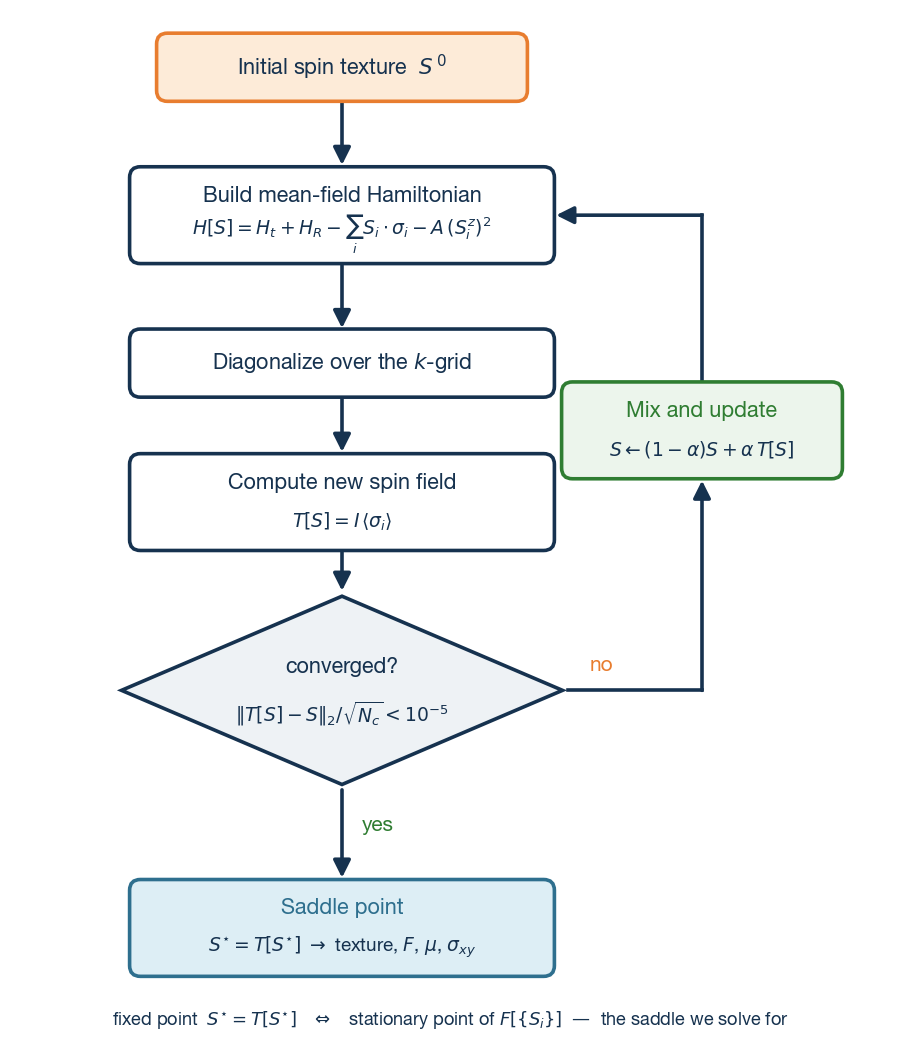
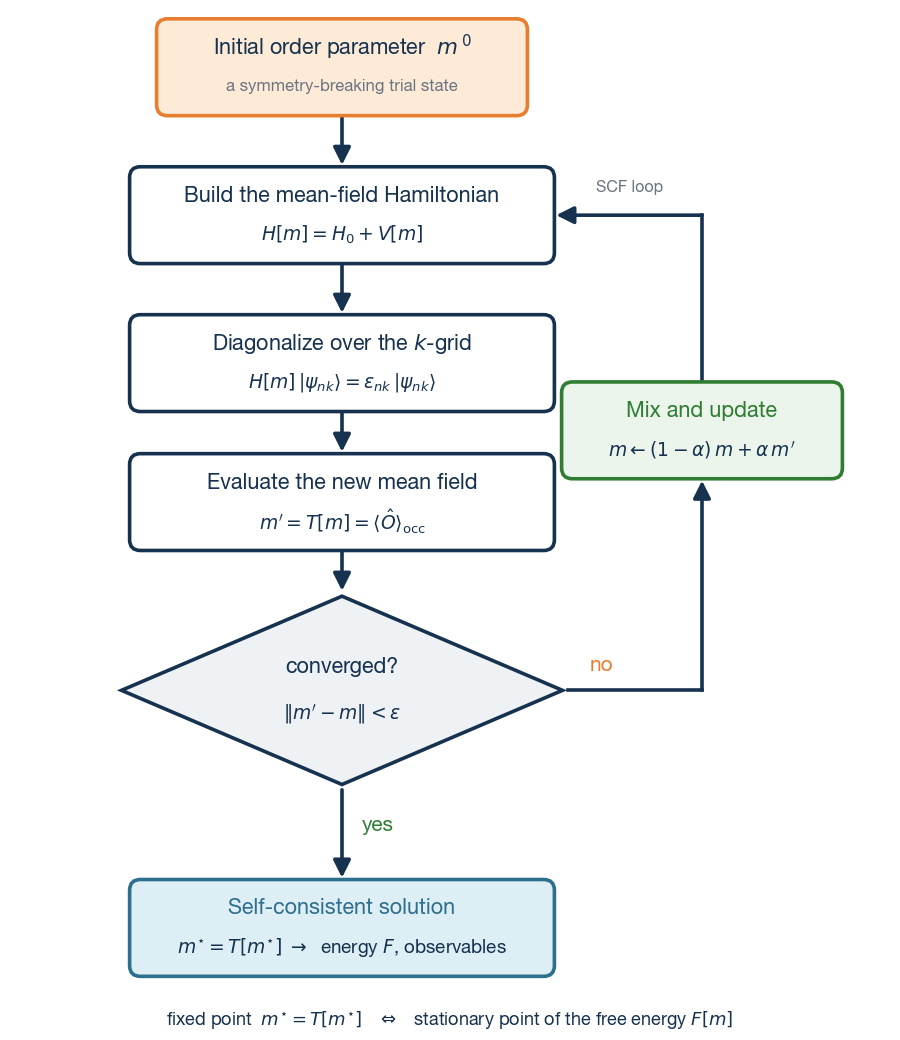
SCF flowchart: redraw fully generic (order parameter m, not the lattice model)
The old chart hard-coded the lattice Hubbard+Rashba+easy-axis Hamiltonian and
spin-texture wording — too problem-specific for a general-purpose solver
banner. New generic loop:

  m0 (symmetry-breaking trial state) -> H[m] = H0 + V[m]
  -> diagonalize over the k-grid (H|psi_nk> = eps_nk|psi_nk>)
  -> m' = T[m] = <O>_occ -> converged? ||m'-m|| < eps
  -> mix m <- (1-a)m + a m' (loop) / self-consistent solution
     m* = T[m*] -> energy F, observables

Improvements: uniform two-line boxes (even rhythm), explicit eigenproblem in
the diagonalize step, muted "SCF loop" label on the return rail, generic
fixed-point <-> stationary-F footnote. Banner alt text + README updated.

diff --git a/index.html b/index.html
@@ -205,7 +205,7 @@
               <span class="proj-more">View project →</span>
             </div>
             <div class="proj-fig proj-fig-compose">
-              <img class="tall" src="assets/figures/hf-scf-flowchart.png" alt="Flowchart of the self-consistent field loop: build the mean-field Hamiltonian, diagonalize over the k-grid, compute the new spin field, then mix and update until it converges to the saddle point" loading="lazy" />
+              <img class="tall" src="assets/figures/hf-scf-flowchart.png" alt="Flowchart of the self-consistent field loop: start from a symmetry-breaking order parameter, build the mean-field Hamiltonian, diagonalize over the k-grid, evaluate the new mean field, then mix and update until it converges to the self-consistent fixed point" loading="lazy" />
               <img src="assets/figures/hf-scf-convergence.png" alt="SCF convergence of a canted-Néel texture: the residual drops below the 1e-5 tolerance while the free energy settles" loading="lazy" />
               <img src="assets/figures/hf-scf-textures.png" alt="An in-plane spin seed self-consistently grows out-of-plane skyrmion cores: initial versus converged spin textures colored by S_z" loading="lazy" />
             </div>

diff --git a/figure-src/build_scf_figures.py b/figure-src/build_scf_figures.py
@@ -73,30 +73,35 @@ def build_flowchart(path: Path) -> None:
 
     bold = dict(fontsize=15.5, fontweight="bold", color=INK)
     math = dict(fontsize=13.5, color=INK)
+    note = dict(fontsize=12, color="#6b7480")
 
     cx = 38.0  # main column
     y_seed, y_ham, y_diag, y_spin, y_conv, y_saddle = 108.5, 92, 75.5, 60, 39, 12.5
     cx_mix, y_mix = 78.0, 68.0
 
-    box(cx, y_seed, 40, 6.4, ORANGE, "#fdebd8",
-        [(r"Initial spin texture  $S^{\,0}$", bold)])
-    box(cx, y_ham, 46, 9.6, INK, BOX_BG, [
-        ("Build mean-field Hamiltonian", bold),
-        (r"$H[S] = H_t + H_R - \sum_i S_i \cdot \sigma_i - A\,(S_i^z)^2$", math),
+    box(cx, y_seed, 40, 9.6, ORANGE, "#fdebd8", [
+        (r"Initial order parameter  $m^{\,0}$", bold),
+        ("a symmetry-breaking trial state", note),
     ])
-    box(cx, y_diag, 46, 6.4, INK, BOX_BG,
-        [(r"Diagonalize over the $k$-grid", bold)])
+    box(cx, y_ham, 46, 9.6, INK, BOX_BG, [
+        ("Build the mean-field Hamiltonian", bold),
+        (r"$H[m] = H_0 + V[m]$", math),
+    ])
+    box(cx, y_diag, 46, 9.6, INK, BOX_BG, [
+        (r"Diagonalize over the $k$-grid", bold),
+        (r"$H[m]\,|\psi_{nk}\rangle = \varepsilon_{nk}\,|\psi_{nk}\rangle$", math),
+    ])
     box(cx, y_spin, 46, 9.6, INK, BOX_BG, [
-        ("Compute new spin field", bold),
-        (r"$T[S] = I\,\langle \sigma_i \rangle$", math),
+        ("Evaluate the new mean field", bold),
+        (r"$m' = T[m] = \langle \hat{O} \rangle_{\mathrm{occ}}$", math),
     ])
     box(cx, y_saddle, 46, 9.6, TEAL, "#ddeef5", [
-        ("Saddle point", dict(fontsize=15.5, fontweight="bold", color=TEAL)),
-        (r"$S^{\star} = T[S^{\star}]\;\rightarrow\;$texture, $F$, $\mu$, $\sigma_{xy}$", math),
+        ("Self-consistent solution", dict(fontsize=15.5, fontweight="bold", color=TEAL)),
+        (r"$m^{\star} = T[m^{\star}]\;\rightarrow\;$ energy $F$, observables", math),
     ])
     box(cx_mix, y_mix, 30, 9.6, GREEN, "#ecf5ec", [
         ("Mix and update", dict(fontsize=15.5, fontweight="bold", color=GREEN)),
-        (r"$S \leftarrow (1-\alpha)S + \alpha\,T[S]$", math),
+        (r"$m \leftarrow (1-\alpha)\,m + \alpha\,m'$", math),
     ])
 
     # decision diamond
@@ -106,7 +111,7 @@ def build_flowchart(path: Path) -> None:
         closed=True, edgecolor=INK, facecolor="#eef2f5", linewidth=2.6, zorder=3,
     ))
     ax.text(cx, y_conv + 2.6, "converged?", ha="center", va="center", zorder=4, **bold)
-    ax.text(cx, y_conv - 2.6, r"$\|T[S]-S\|_2/\sqrt{N_c} < 10^{-5}$",
+    ax.text(cx, y_conv - 2.6, r"$\| m' - m \| < \epsilon$",
             ha="center", va="center", zorder=4, **math)
 
     def arrow(p0, p1, color=INK, connectionstyle=None):
@@ -117,9 +122,9 @@ def build_flowchart(path: Path) -> None:
             shrinkA=0, shrinkB=0,
         ))
 
-    arrow((cx, y_seed - 3.8), (cx, y_ham + 5.6))
-    arrow((cx, y_ham - 5.6), (cx, y_diag + 3.9))
-    arrow((cx, y_diag - 3.9), (cx, y_spin + 5.6))
+    arrow((cx, y_seed - 5.6), (cx, y_ham + 5.6))
+    arrow((cx, y_ham - 5.6), (cx, y_diag + 5.6))
+    arrow((cx, y_diag - 5.6), (cx, y_spin + 5.6))
     arrow((cx, y_spin - 5.6), (cx, y_conv + dh + 0.6))
     arrow((cx, y_conv - dh - 0.6), (cx, y_saddle + 5.6))
     # no -> mix -> back to Hamiltonian (right-angle path)
@@ -131,10 +136,12 @@ def build_flowchart(path: Path) -> None:
             fontsize=15, fontweight="bold")
     ax.text(cx + 2.2, (y_conv - dh + y_saddle + 5.6) / 2, "yes", color=GREEN,
             fontsize=15, fontweight="bold")
+    ax.text((cx + 23.8 + cx_mix) / 2, y_ham + 2.6, "SCF loop",
+            ha="center", fontsize=11.5, style="italic", color="#6b7480")
 
     ax.text(50, 2.2,
-            r"fixed point  $S^{\star} = T[S^{\star}]$   $\Leftrightarrow$   "
-            r"stationary point of $F[\{S_i\}]$  —  the saddle we solve for",
+            r"fixed point  $m^{\star} = T[m^{\star}]$   $\Leftrightarrow$   "
+            r"stationary point of the free energy $F[m]$",
             ha="center", va="center", fontsize=13, style="italic", color=INK)
 
     fig.savefig(path, facecolor="white")

diff --git a/figure-src/README.md b/figure-src/README.md
@@ -8,7 +8,7 @@ the Hall Crystal and condensed-matter homepage banners read local source figures
 - `build_qc_tetron_crop.py` — regenerates the quantum-computing card's Tetron-panel crop from `assets/figures/qc-fig-tetron.png`.
 - `build_qc_bloch_card.py` — pads the quantum-computing Bloch-sphere card crop so its rendered height matches the braiding panel.
 - `build_hf_banner.py` — crops the Hall Crystal S8b texture plot and adds compact colorbars for the homepage Hartree-Fock banner (superseded on the homepage by the SCF trio below; kept for reuse).
-- `build_scf_figures.py` — rebuilds the three SCF-method figures on the Hartree-Fock banner (flowchart, convergence, seed→SkX textures) from `scf_figure_data.npz`. Site edits vs. the deck originals: convergence title is just "SCF convergence" with the tolerance annotation removed; the textures suptitle is removed.
+- `build_scf_figures.py` — rebuilds the three SCF-method figures on the Hartree-Fock banner (flowchart, convergence, seed→SkX textures) from `scf_figure_data.npz`. Site edits vs. the deck originals: the flowchart is redrawn fully generic (order parameter m, H[m] = H₀ + V[m] — no lattice-specific Hamiltonian); convergence title is just "SCF convergence" with the tolerance annotation removed; the textures suptitle is removed.
 - `extract_scf_data.py` — one-shot that regenerates `scf_figure_data.npz` by re-running the anchor-cell canted-Néel SCF (n=0.05, α=1.4, A=0.3, L=9, p=2, I/Ic=1.045, tol=1e-5, κ_nk=24) with the research solver in `~/Documents/Hall Crystal/projects/` (read-only; ~13 min serial).
 - `build_cooper_banner.py` — combines Cooper-pair figures with `Figure-1.pdf` from the phonon-magnetism project.
 - `figure_data.npz` — the minimal data the figure needs (~22 KB), extracted once from the research run.